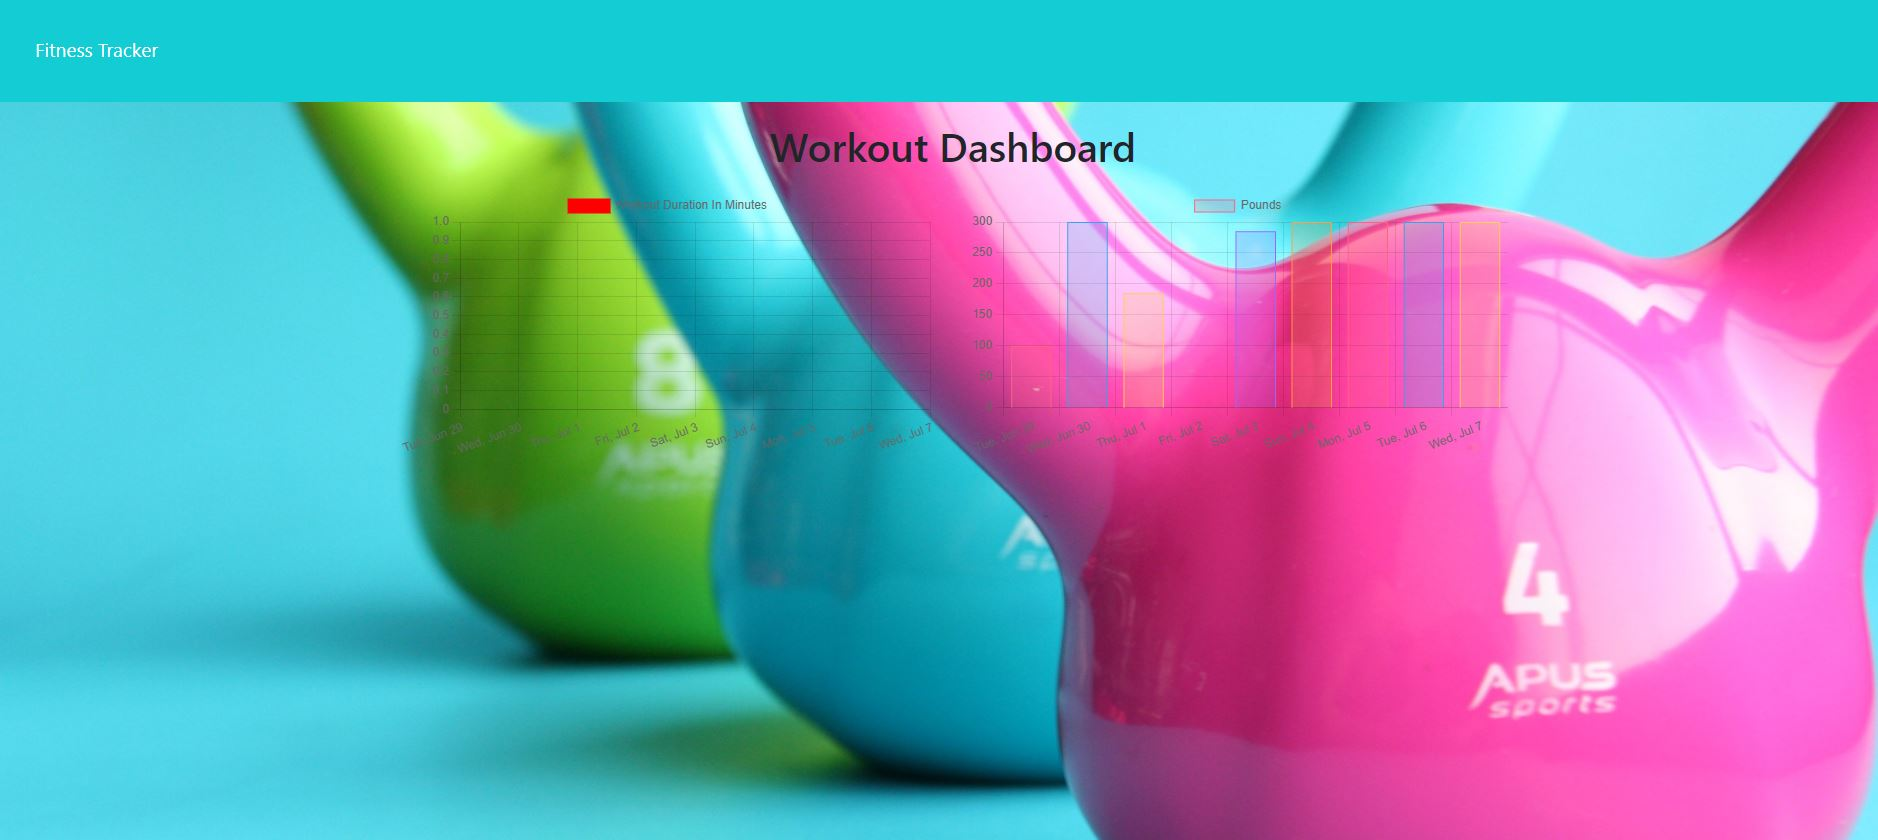
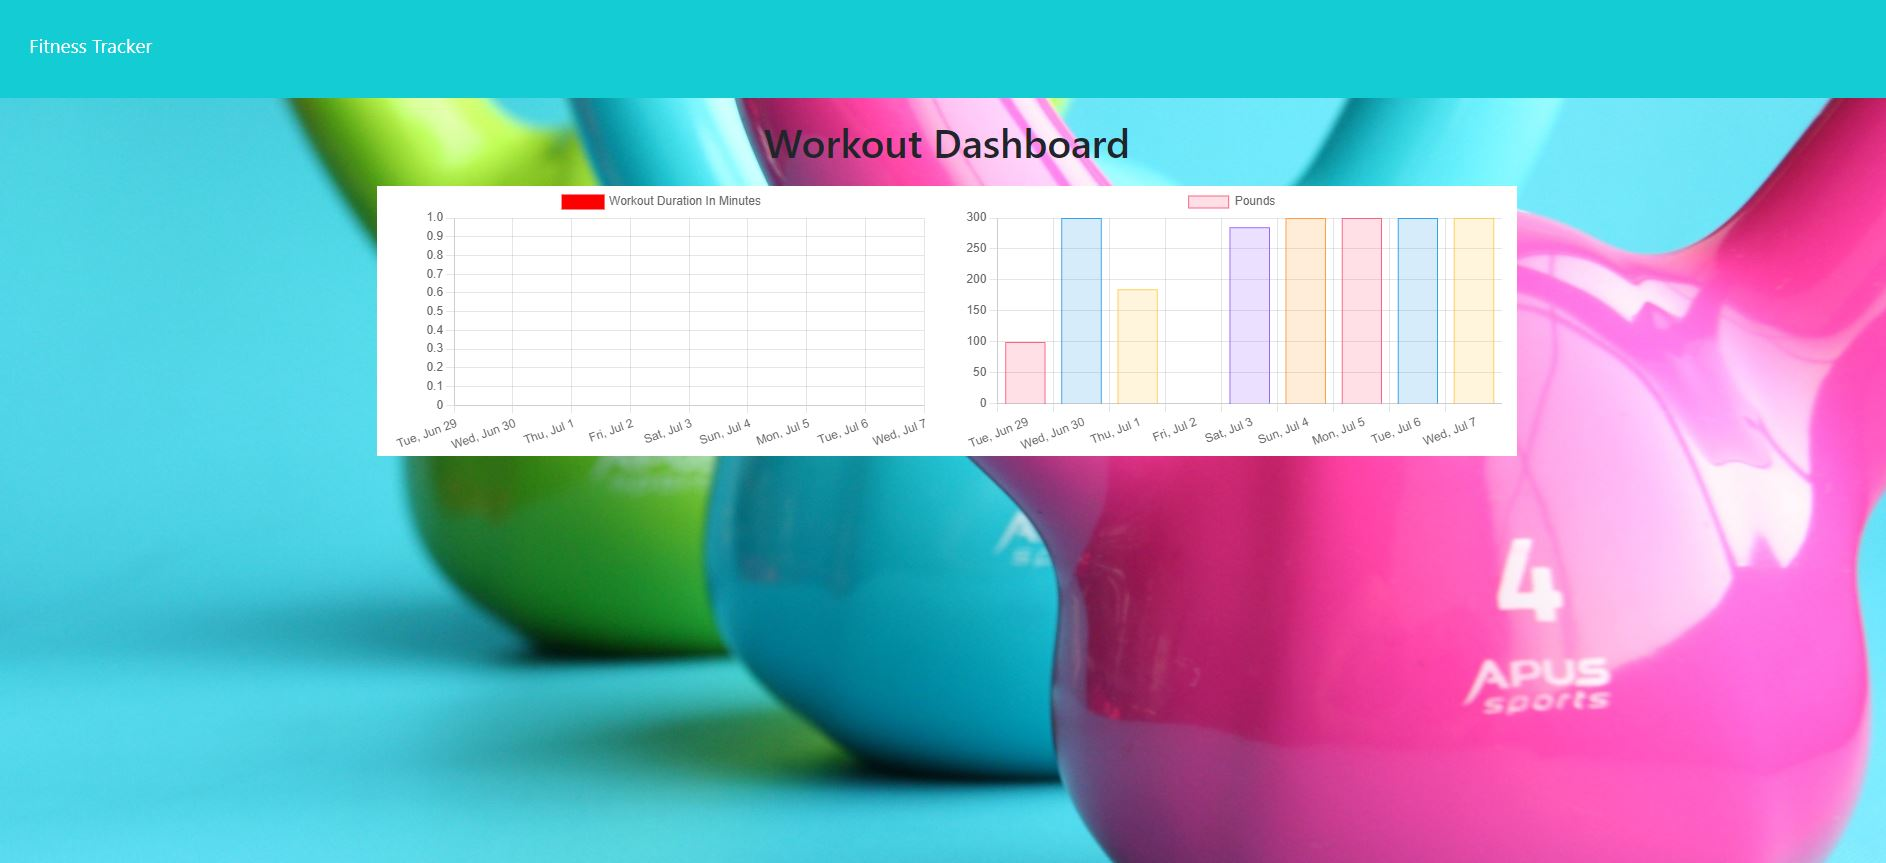
customized css graph style to make graph background lighter so data could be seen more easily, added class to html, deleted unused lift.png image

diff --git a/public/stats.html b/public/stats.html
@@ -21,10 +21,10 @@
     <div class="container mt">
       <h1 class="text-center">Workout Dashboard</h1>
       <div class="row mt">
-        <div class="col-md-6">
+        <div class="col-md-6 bkg-white">
           <canvas id="canvas"></canvas>
         </div>
-        <div class="col-md-6">
+        <div class="col-md-6 bkg-white">
           <canvas id="canvas2"></canvas>
         </div>
       </div>

diff --git a/public/css/style.css b/public/css/style.css
@@ -47,7 +47,7 @@ nav a {
 }
 
 nav a:hover {
-  background-color: #0ee267;
+  background-color: #11ca5e;
   color: #3e4643;
 }
 
@@ -448,4 +448,8 @@ form > button {
     opacity: 0;
     right: -320px;
   }
+}
+
+.bkg-white {
+  background-color: white;
 }
